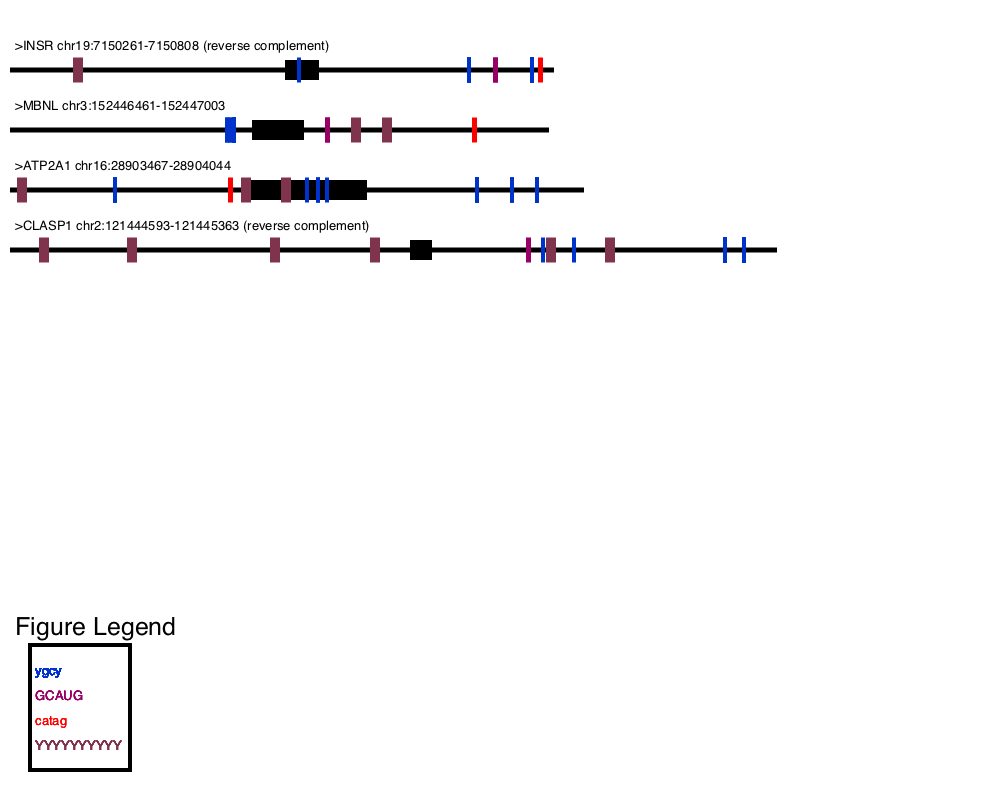
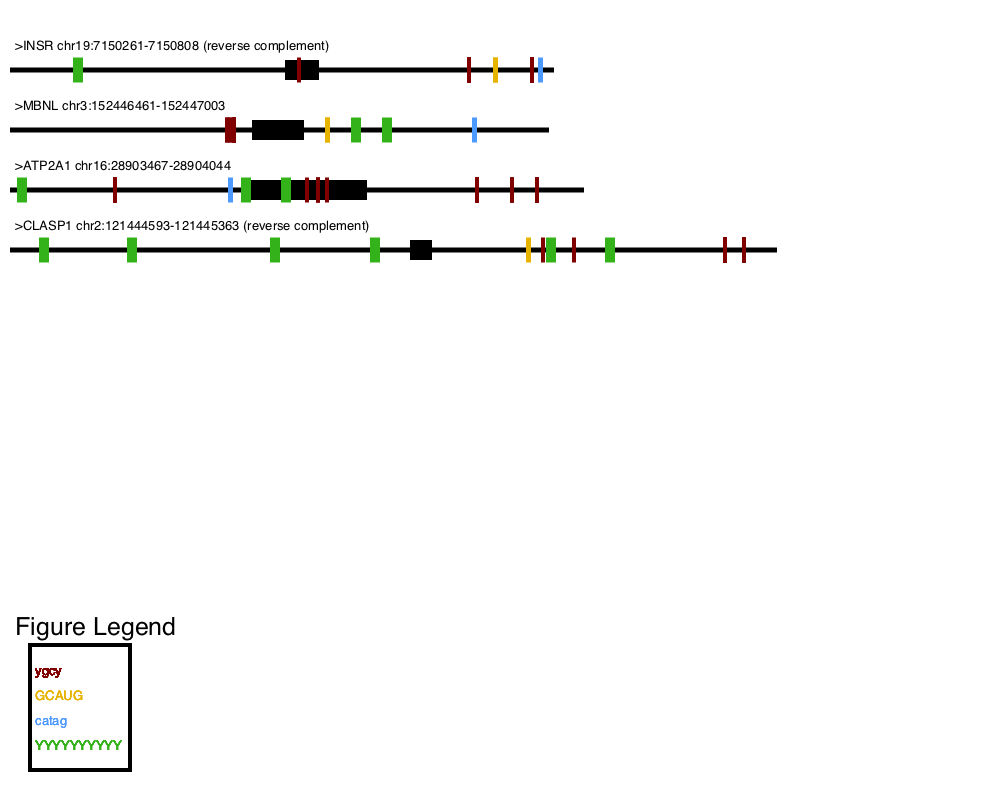
fixed colors

diff --git a/motif-mark-oop.py b/motif-mark-oop.py
@@ -35,7 +35,7 @@ args=get_args()
 possible_motifs=[]
 i=0
 motif_classes=[]
-color=[[0,0.2,0.8],[0.6,0,0.4],[1,0,0],[0.5,0.2,0.3],[0.3,0.7,0.2]]
+color=[[0.5,0,0],[0.9,0.7,0],[0.3,0.6,1],[0.2,0.7,0.1]]
 locations=[[35,675],[35,700],[35,725],[35,750],[35,775]]
 with open(args.motif, "r") as motif_list:
     for line in motif_list:
@@ -75,8 +75,6 @@ with open(f"./{output_filename}_one_line.fa", "w") as output:
                 sequence+=line
         output.write(header+"\n")
         output.write(sequence+"\n")
-motif_dict={}
-#motif_seq: start,end
 ##Parse new fasta file
 line_value=10
 header_location=50
@@ -84,7 +82,7 @@ with open(f"./{output_filename}_one_line.fa", "r") as new_fasta:
     for line in new_fasta:
         if line.startswith(">"):
             header=line
-            print(header)
+            #print(header)
             context.set_source_rgb (0, 0, 0)
             context.set_font_size(13)
             context.move_to(15,header_location)
@@ -138,15 +136,11 @@ with open(f"./{output_filename}_one_line.fa", "r") as new_fasta:
                         #print(motif_seq, single.color)
                         #for each motif match in the segment
                         pre_motif=re.findall(f'.*(?={motif_seq})', line)
-                        #motif_color=
                         #print(motif_seq)
                         #print(pre_motif[0])
                         motif_length=len(motif_seq)
                         motif_start=len(pre_motif[0])
                         motif_end=motif_start+motif_length
-                        motif_dict[motif_seq]=motif_start,motif_end
-                        #print(motif_start)
-                        #print(motif_length)
                         #print(f"motif length {motif_length}")
                         #print(f"start position {motif_start}")
                         #print(f"end position {motif_end}")
@@ -169,8 +163,6 @@ with open(f"./{output_filename}_one_line.fa", "r") as new_fasta:
                         context.show_text(single.sequence)
                         context.stroke()
                         #print(start)
-                        #whats the length of the segment?
-                        #is it upper or lower case?
 context.set_source_rgb (0, 0, 0)
 context.set_line_width(4)
 context.rectangle(30, 645, 100, 125)
@@ -182,6 +174,3 @@ context.show_text("Figure Legend")
 context.stroke()
 surface.write_to_png(f"{output_filename}.png")
 surface.finish()
-# for single in motif_classes:
-#     print(single.color)
-#print(motif_dict)
